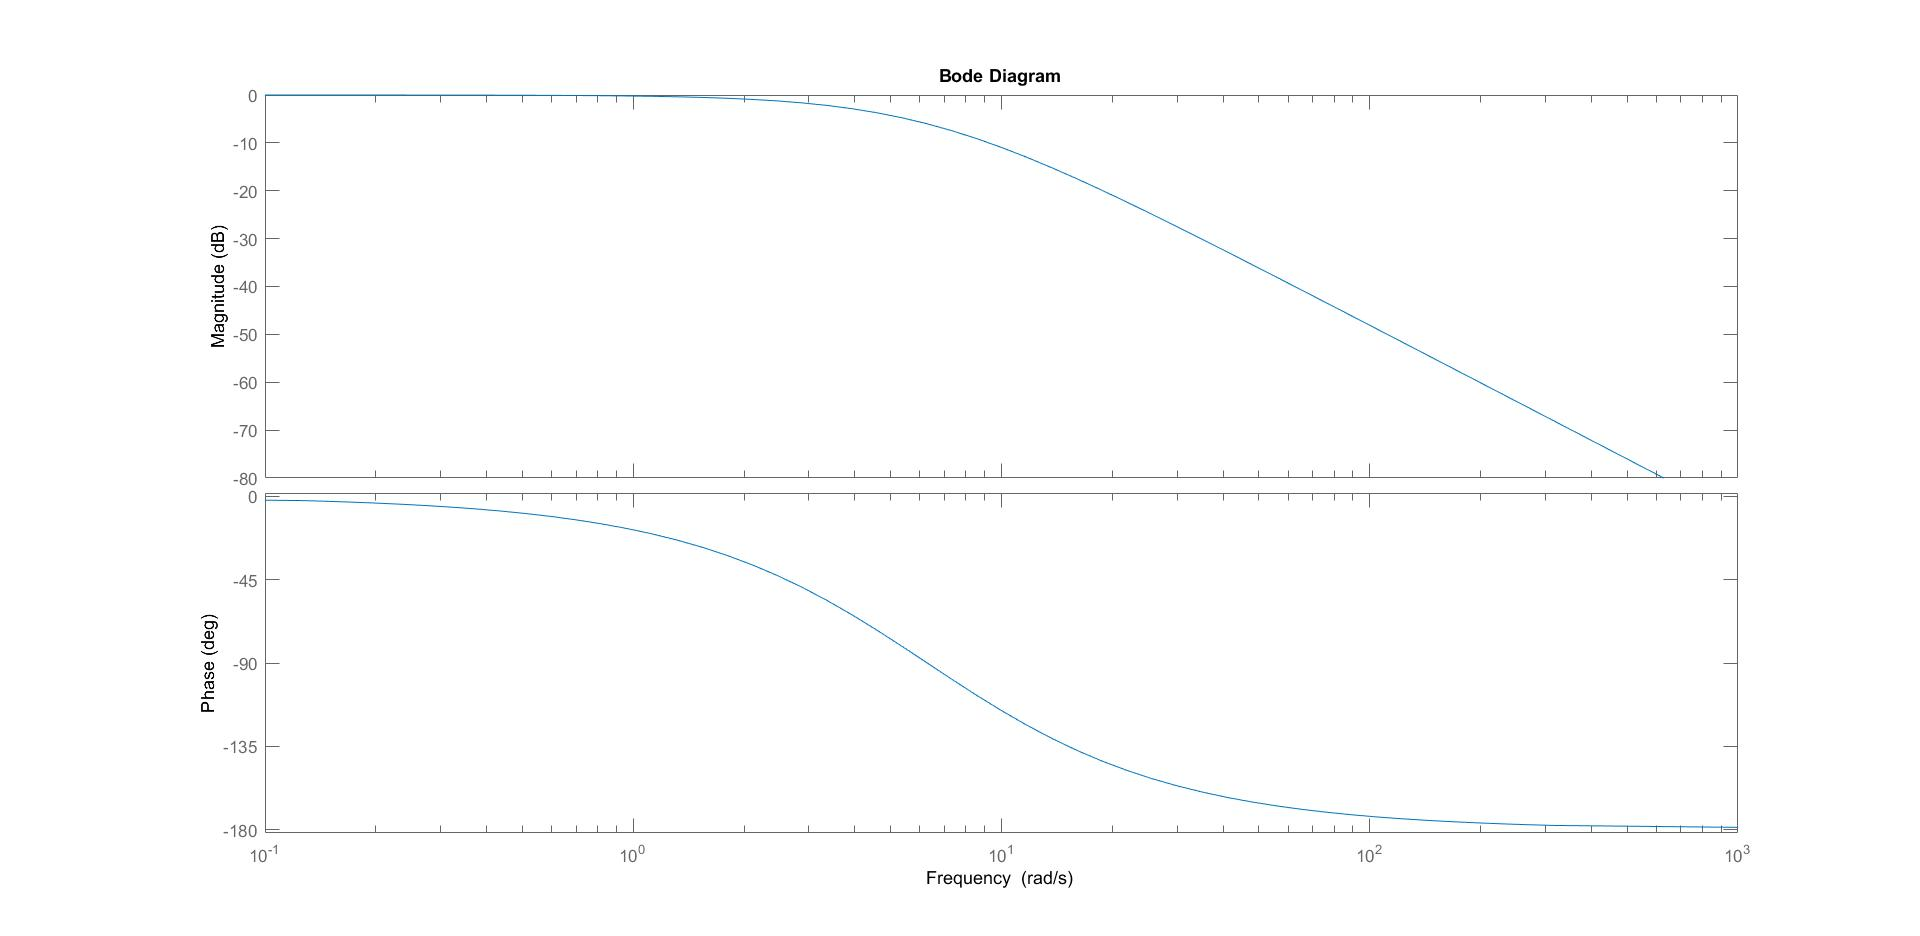
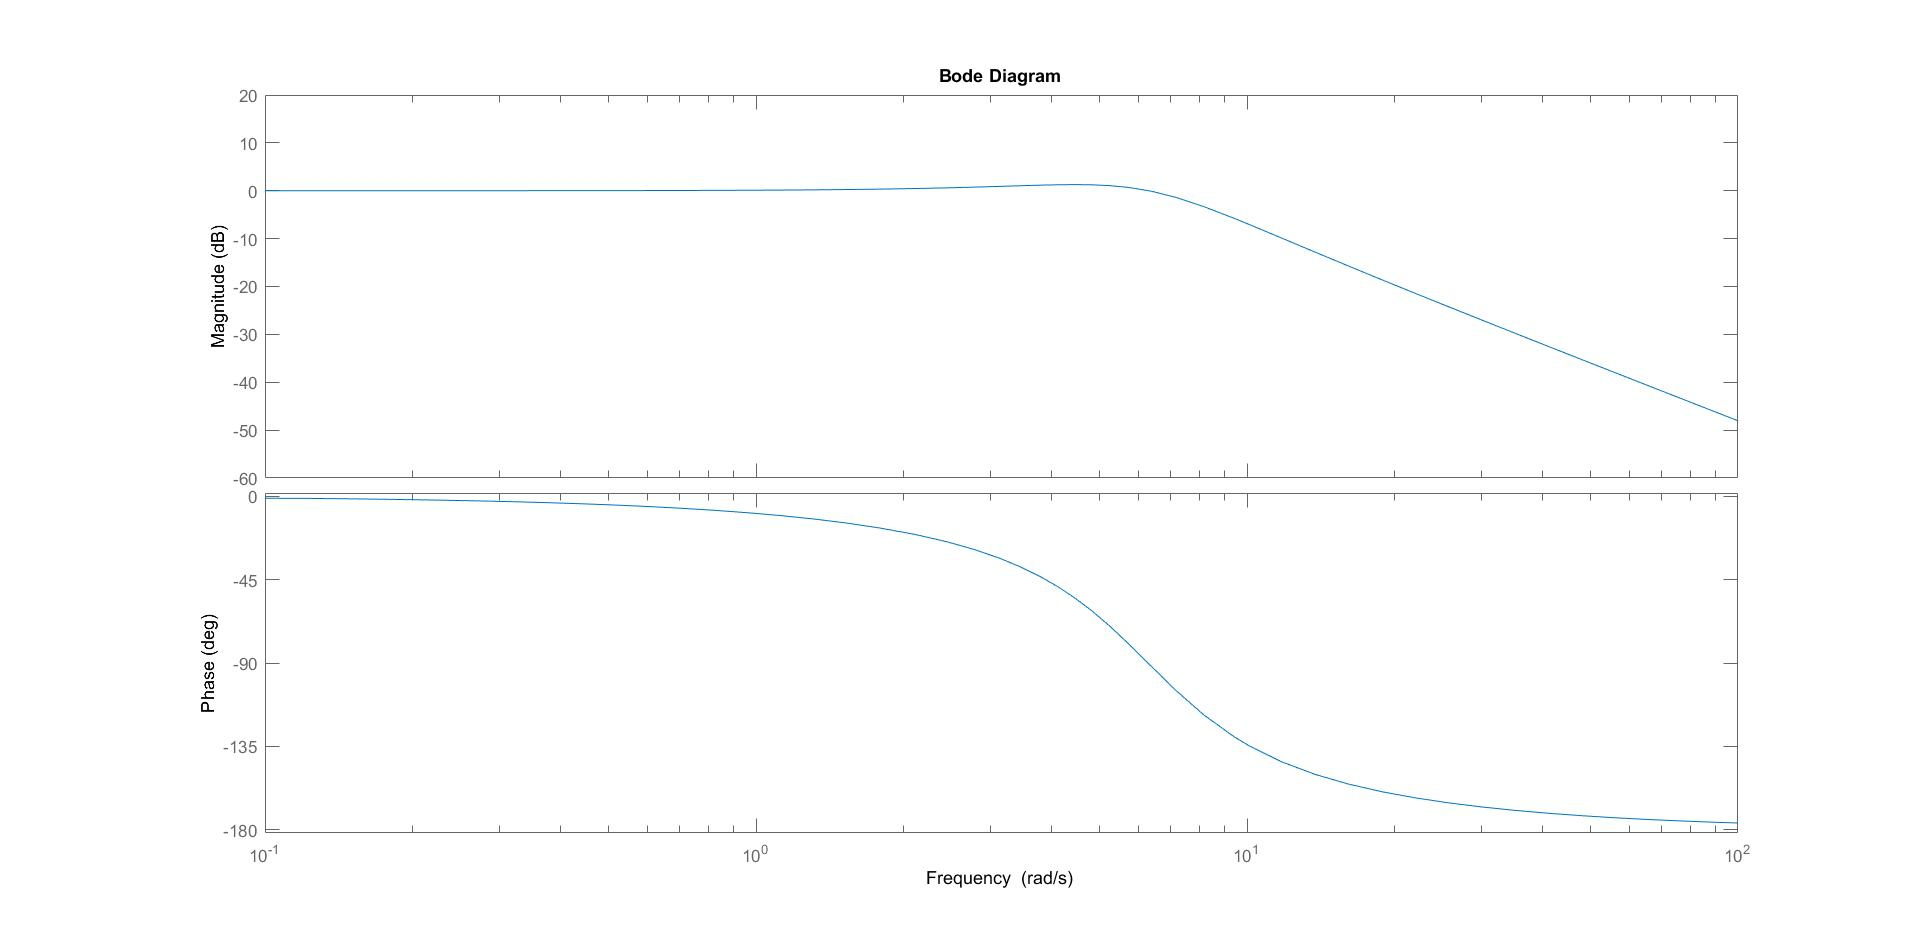
1

Changed region(s): [[0.1562, 0.5267, 0.3125, 0.5577], [0.7812, 0.8675, 0.9062, 0.8985], [0.5625, 0.1859, 0.5938, 0.2169]]

diff --git a/task1_1.m b/task1_1.m
@@ -3,7 +3,7 @@ clear all;
 
 %%TASK 1.1
 m_p = 0.16; %kg
-c_p = 3; %Ns/m
+c_p = 0.4; %Ns/m
 k_p = 6.32; %N/m
 c_p1 = 0;
 
@@ -15,38 +15,38 @@ H = tf([0,2*zeta*w_n,w_n^2],[1,2*zeta*w_n,w_n^2])
 H1 = tf([0,2*zeta1*w_n,w_n^2],[1,2*zeta1*w_n,w_n^2])
 % fr= 0:0.01:100;
 % [mag,phase,wout] = bode(H1,fr);
-% bode(H,H1);
+bode(H);
 % bode(H1);
 
-%% task 1.3
-
-%% sine excitation
-t = 0:0.01:10;
-excitation_sin = 0.05*sin(3*t);
-
-% figure()
-% plot(t,excitation_sin)
-
-figure(1)
-lsim(H,excitation_sin,t) % sine excitation
-hold on;
- %% Impulse
-stepinput = 0.05*ones([1 length(t)]);
-for i = 101:length(t)
-   stepinput(i) = 0; 
-end
-
-figure(2)
-lsim(H,stepinput,t) % impulse excitation
-hold on;
- %%PSD
-w = 0:25;
-PSD = (4.028e-7)./((2.88e-4)+(0.68*w.^2)+w.^4);
-Hfreqdomain = freqresp(H,w);
-H = abs(Hfreqdomain(:))';
-PSD = H.^2.*PSD;
-
-figure(3)
-semilogy(w,PSD)
-hold on;
+% %% task 1.3
+% 
+% %% sine excitation
+% t = 0:0.01:10;
+% excitation_sin = 0.05*sin(3*t);
+% 
+% % figure()
+% % plot(t,excitation_sin)
+% 
+% figure(1)
+% lsim(H,excitation_sin,t) % sine excitation
+% hold on;
+%  %% Impulse
+% stepinput = 0.05*ones([1 length(t)]);
+% for i = 101:length(t)
+%    stepinput(i) = 0; 
+% end
+% 
+% figure(2)
+% lsim(H,stepinput,t) % impulse excitation
+% hold on;
+%  %%PSD
+% w = 0:25;
+% PSD = (4.028e-7)./((2.88e-4)+(0.68*w.^2)+w.^4);
+% Hfreqdomain = freqresp(H,w);
+% H = abs(Hfreqdomain(:))';
+% PSD = H.^2.*PSD;
+% 
+% figure(3)
+% semilogy(w,PSD)
+% hold on;
 

diff --git a/task4.m b/task4.m
@@ -11,13 +11,15 @@ w_n = sqrt(k_p/m_p);
 zeta= c_p/(2*sqrt(k_p*m_p));
 % T=2*zeta*w_n*m_p;
 % for T = 2:0.01:3;
-T= 2.01; %optimised T
+T= 1; %optimised T
 
 coeff=coeff +1;    
 
 % G = tf([0,0,k_p],[m_p,d_d,k_p+d_p]);
 N = tf([0,0,k_p],[m_p,T,k_p]);
-% bode(N);
+figure(4)
+bode(N);
+
 % hold on;
 %% sine excitation
 t = 0:0.01:10;
